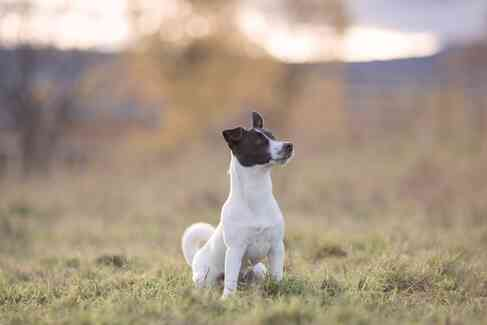
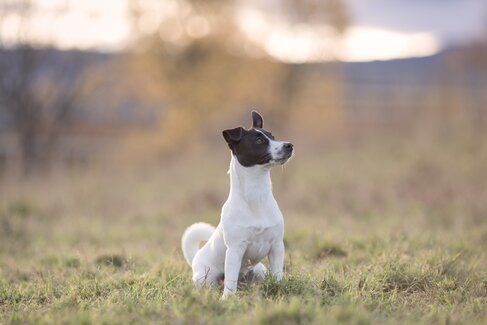
One of the images was lower quality by accident, fixed.

diff --git a/image_data.js b/image_data.js
@@ -138,7 +138,7 @@ const IMAGE_DATA = {
             "aperture": 2.2,
             "camera": "Canon EOS 5D Mark III",
             "capture_time": "2025:10:28 13:57:15",
-            "file_size": "327 kB",
+            "file_size": "1969 kB",
             "focal": "135.0 mm",
             "image_height": 3579,
             "image_width": 5362,
